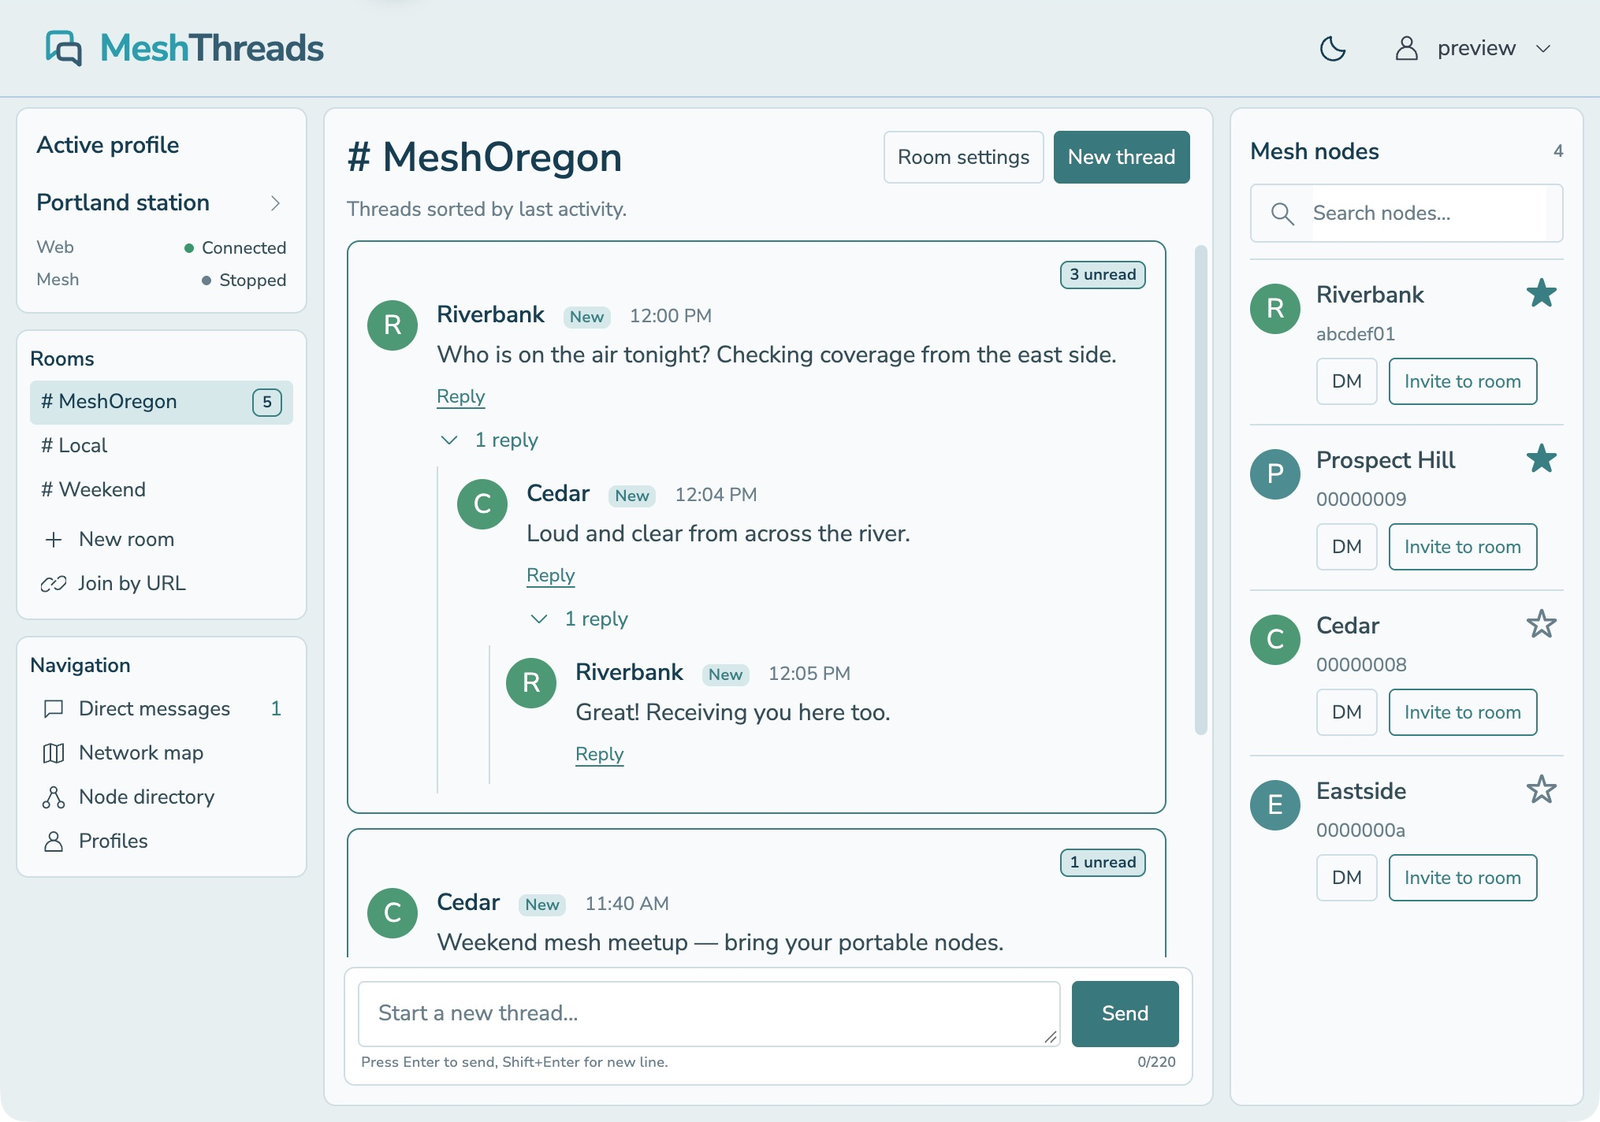
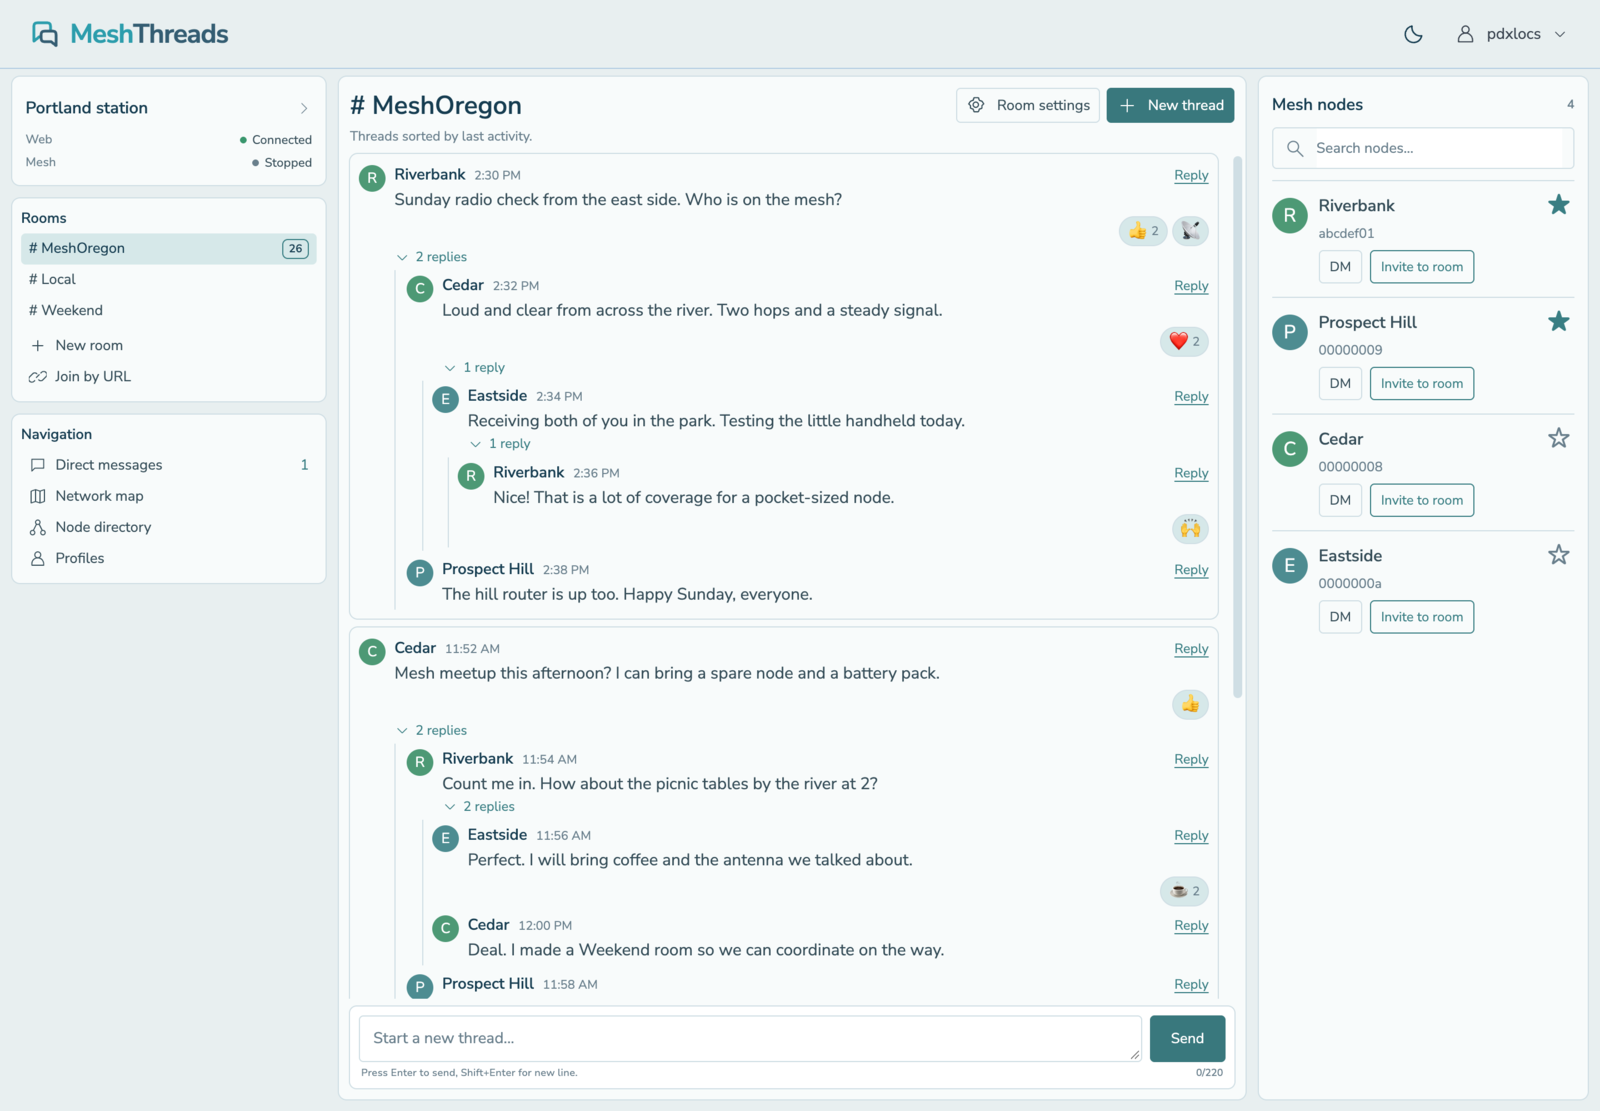
screenshots

diff --git a/docs/screenshots/README.md b/docs/screenshots/README.md
@@ -1,13 +1,14 @@
 # Example screenshots
 
-Captured from the actual MeshThreads interface on 2026-10-31 using an isolated local database and fictional profiles, nodes, messages, telemetry and traceroutes. Radio transport was mocked or stopped. No live account data, private channel keys, or real conversations are shown.
+Captured from the actual MeshThreads interface using an isolated local database and fictional profiles, nodes, messages, telemetry and traceroutes. Radio transport was mocked or stopped. No live account data, private channel keys, or real conversations are shown.
 
-- `board-dark.png`: desktop threaded board, Harbor dark mode.
-- `board-light.png`: desktop threaded board, Harbor light mode.
-- `node-directory.png`: grouped roster with expanded telemetry, traceroute and map.
-- `board-mobile.png`: phone-width conversation view (393 × 852 CSS viewport).
-- `mobile-navigation.png`: compact navigation drawer at the same phone width.
+- `board-dark.png`: desktop threaded board, Harbor dark mode, refreshed 2026-11-01.
+- `board-light.png`: the same fuller conversations and tapbacks in Harbor light mode, refreshed 2026-11-01.
+- `node-directory.png`: grouped roster with expanded telemetry, traceroute and map, captured 2026-10-31.
+- `board-mobile.png`: phone-width conversation view with nested replies and tapbacks, refreshed 2026-11-01.
+- `tapbacks-mobile.png`: a tapped emoji bubble showing its two senders, captured 2026-11-01.
+- `mobile-navigation.png`: compact navigation drawer alongside the same conversations, refreshed 2026-11-01.
 
-Browser chrome was cropped from native browser captures. Desktop captures were resized for documentation; no generated mockups were substituted for screenshots. Node directory capture uses a wider effective viewport through browser zoom.
+The refreshed demo contains three conversations with 15 text posts and 11 emoji reactions. Desktop views use a 1440 × 1000 CSS viewport; phone views use the iPhone 16 preset at 393 × 852. Captures use Chrome's viewport screenshot command through the native browser UI, then are resized for documentation. The older node directory capture was cropped from a native browser screenshot and uses a wider effective viewport through browser zoom. No generated mockups were substituted for screenshots.
 
 Map tiles/data: © OpenStreetMap contributors (https://www.openstreetmap.org/copyright); mapping UI: Leaflet.

diff --git a/README.md b/README.md
@@ -16,14 +16,14 @@ Session tracking begins with this update and persists across restarts. A browser
 
 Actual app captures using fictional sample messages, nodes, and telemetry. The sample mesh transport is stopped; these images do not represent live radio delivery.
 
-**Threaded board, dark mode** — nested replies, room unread counts, and starred nodes.
+**Threaded board, dark mode** — fuller conversations with nested replies, grouped emoji tapbacks, room unread counts, and starred nodes.
 
-![MeshThreads dark board with nested replies and room navigation](docs/screenshots/board-dark.png)
+![MeshThreads dark board with expanded conversations, nested replies, and emoji tapbacks](docs/screenshots/board-dark.png)
 
 <details>
 <summary>Light mode</summary>
 
-![MeshThreads board in the Harbor light theme](docs/screenshots/board-light.png)
+![MeshThreads board in the Harbor light theme with threaded conversations and grouped emoji tapbacks](docs/screenshots/board-light.png)
 
 </details>
 
@@ -33,12 +33,19 @@ Actual app captures using fictional sample messages, nodes, and telemetry. The s
 
 Map data © [OpenStreetMap contributors](https://www.openstreetmap.org/copyright).
 
-**Mobile** — compact conversations and an on-demand navigation drawer.
+**Mobile conversations and tapbacks** — expanded reply threads with emoji bubbles. Tap a bubble to see who reacted.
 
 <p>
-  <img src="docs/screenshots/board-mobile.png" alt="Mobile board with nested replies and a compact composer" width="300">
-  <img src="docs/screenshots/mobile-navigation.png" alt="Mobile navigation drawer with active profile, connection status, and rooms" width="300">
+  <img src="docs/screenshots/board-mobile.png" alt="Mobile board with multiple levels of replies and grouped emoji tapbacks" width="300">
+  <img src="docs/screenshots/tapbacks-mobile.png" alt="Tapping a thumbs-up reaction reveals Cedar and Eastside in the sender popup" width="300">
 </p>
+
+<details>
+<summary>Mobile navigation</summary>
+
+<img src="docs/screenshots/mobile-navigation.png" alt="Mobile navigation drawer with active profile, connection status, and rooms alongside the conversation" width="300">
+
+</details>
 
 ## Quick start
 
